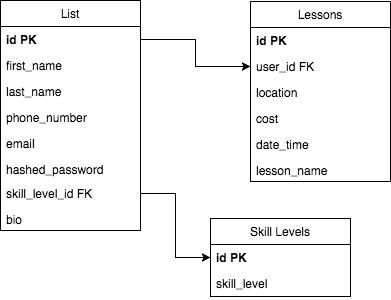
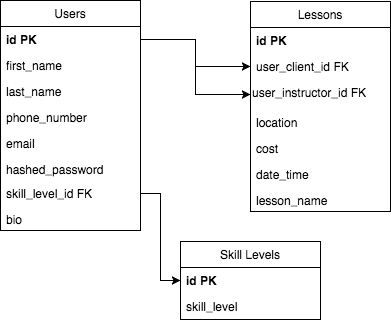
Seeds

diff --git a/db/seeds/02_users.js b/db/seeds/02_users.js
@@ -1,0 +1,30 @@
+exports.seed = function(knex, Promise) {
+  return knex('users').insert([
+    {
+      id: 1,
+      first_name: 'Eddie',
+      last_name: 'Marovich',
+      phone_number: '303-654-3210',
+      email_address: 'spiggy6@gmail.com',
+      hashed_password: '$2a$10$jrcJg8OzLrJZFbtcMXVXQ.173TA2jgo.IFhdoOCuGZvD6rOl/kPei',
+      skill_level_id: 2,
+      created_at: new Date('2016-06-29 14:26:16 UTC'),
+      updated_at: new Date('2016-06-29 14:26:16 UTC')
+    },
+    {
+      id: 2,
+      first_name: 'Nigel',
+      last_name: 'Flippo',
+      phone_number: '303-619-5321',
+      email_address: 'nigel.flippo@gmail.com',
+      hashed_password: '$2a$10$zaDd/g677uKzQEU.Z1SyH.sP53Fu5VFzZQcQTrXx4si/QPI46c/zq',
+      skill_level_id: 2,
+      created_at: new Date('2016-06-29 14:26:16 UTC'),
+      updated_at: new Date('2016-06-29 14:26:16 UTC')
+    }
+  ]).then(() => {
+    return knex.raw(
+      `SELECT setval('users_id_seq', (SELECT MAX(id) FROM users));`
+    )
+  })
+};

diff --git a/db/seeds/01_skill_levels.js b/db/seeds/01_skill_levels.js
@@ -1,0 +1,24 @@
+exports.seed = function(knex, Promise) {
+  return knex('skill_levels').insert([
+    {
+      id: 1,
+      skill_level: 'Beginner'
+    },
+    {
+      id: 2,
+      skill_level: 'Intermediate'
+    },
+    {
+      id: 3,
+      skill_level: 'Advanced'
+    },
+    {
+      id: 4,
+      skill_level: 'Expert (Instructor)'
+    }
+  ]).then(() => {
+    return knex.raw(
+      `SELECT setval('skill_levels_id_seq', (SELECT MAX(id) FROM skill_levels));`
+    )
+  })
+};

diff --git a/db/seeds/03_lessons.js b/db/seeds/03_lessons.js
@@ -1,0 +1,17 @@
+exports.seed = function(knex, Promise) {
+  return knex('lessons').insert([
+    {
+      id: 1,
+      user_client_id: 1,
+      user_instructor_id: 2,
+      location: 'CU School of Music',
+      cost: '$60',
+      date_time: '12/23/17 1:00PM',
+      lesson_name: 'Intro to Electric Guitar'
+    }
+  ]).then(() => {
+    return knex.raw(
+      `SELECT setval('lessons_id_seq', (SELECT MAX(id) FROM lessons));`
+    )
+  })
+};

diff --git a/db/seeds/00_drop.js b/db/seeds/00_drop.js
@@ -1,0 +1,5 @@
+exports.seed = (knex, Promise) => {
+  return knex('lessons').del()
+    .then(() => knex('users').del())
+    .then(() => knex('skill_levels').del())
+}
